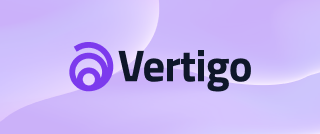
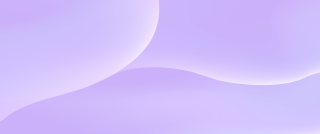
atualização imagem de fundi do header

Changed region(s): [[0.2188, 0.2985, 0.7812, 0.6866]]

diff --git a/style.css b/style.css
@@ -1,3 +1,10 @@
 * {
+    margin: 0;
+    padding: 0;
+    box-sizing: border-box;
     font-family: 'Titillium Web', sans-serif;
+}
+
+header {
+    background-image: url(./imagens/bg-mobile.png);
 }
